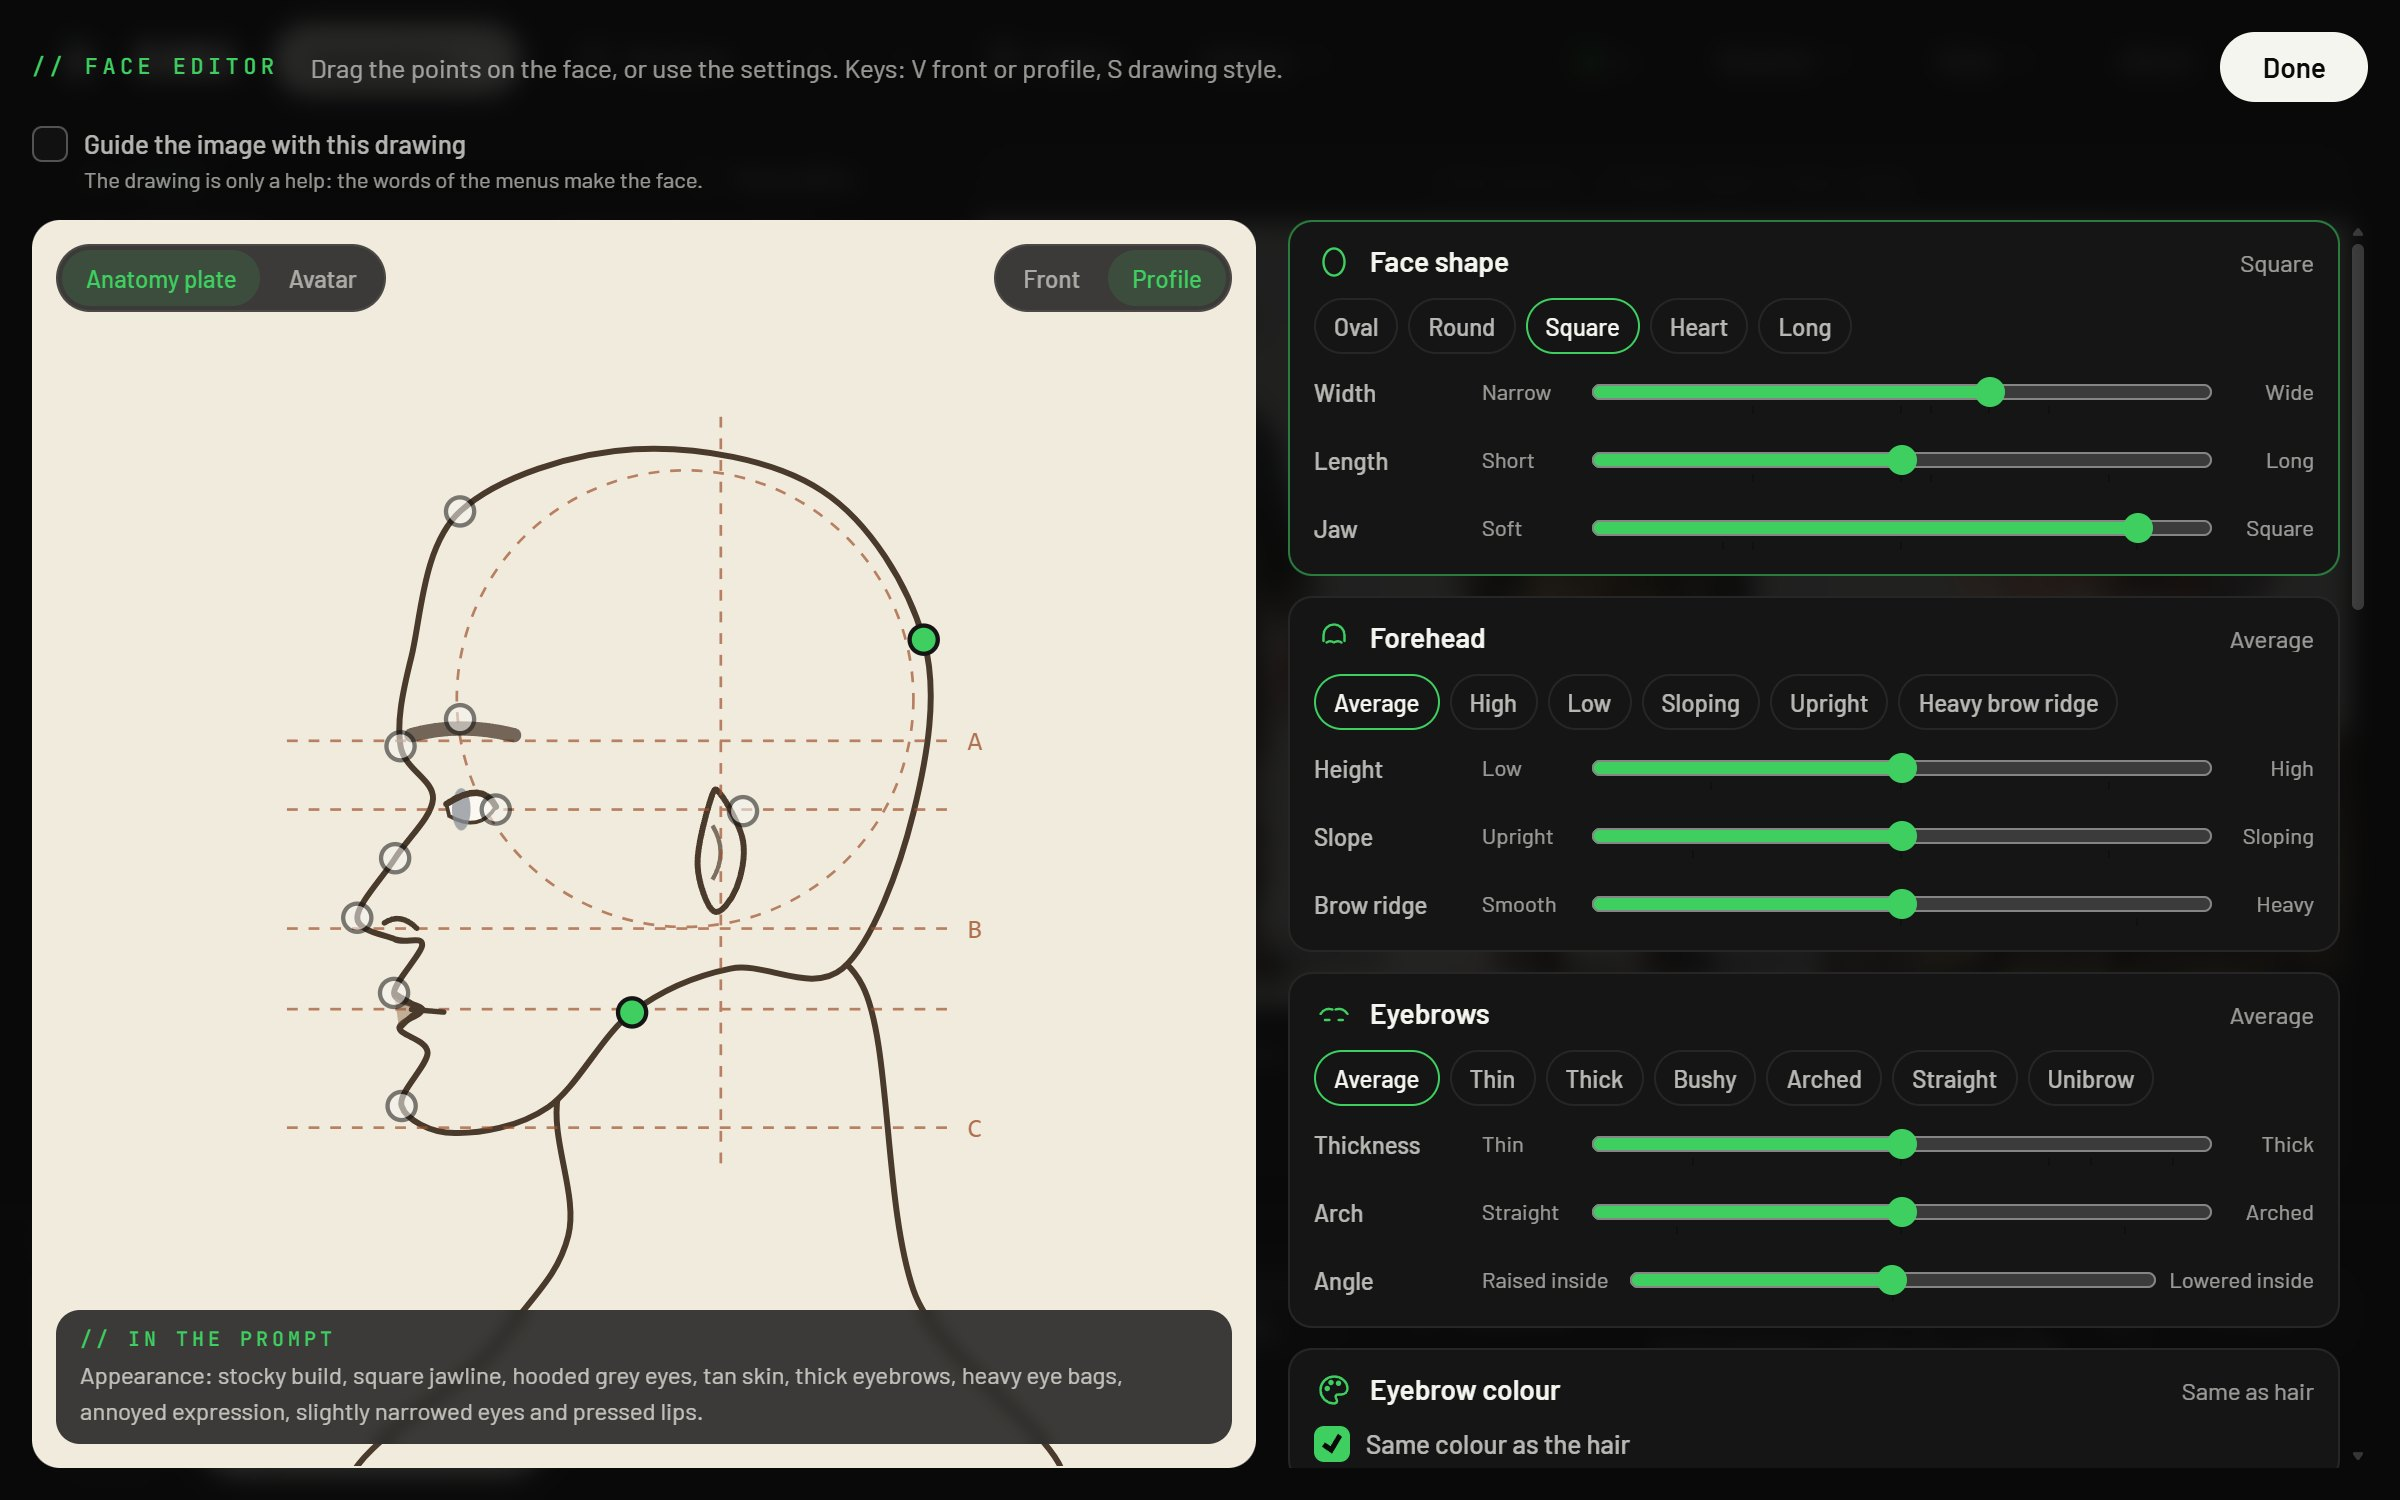
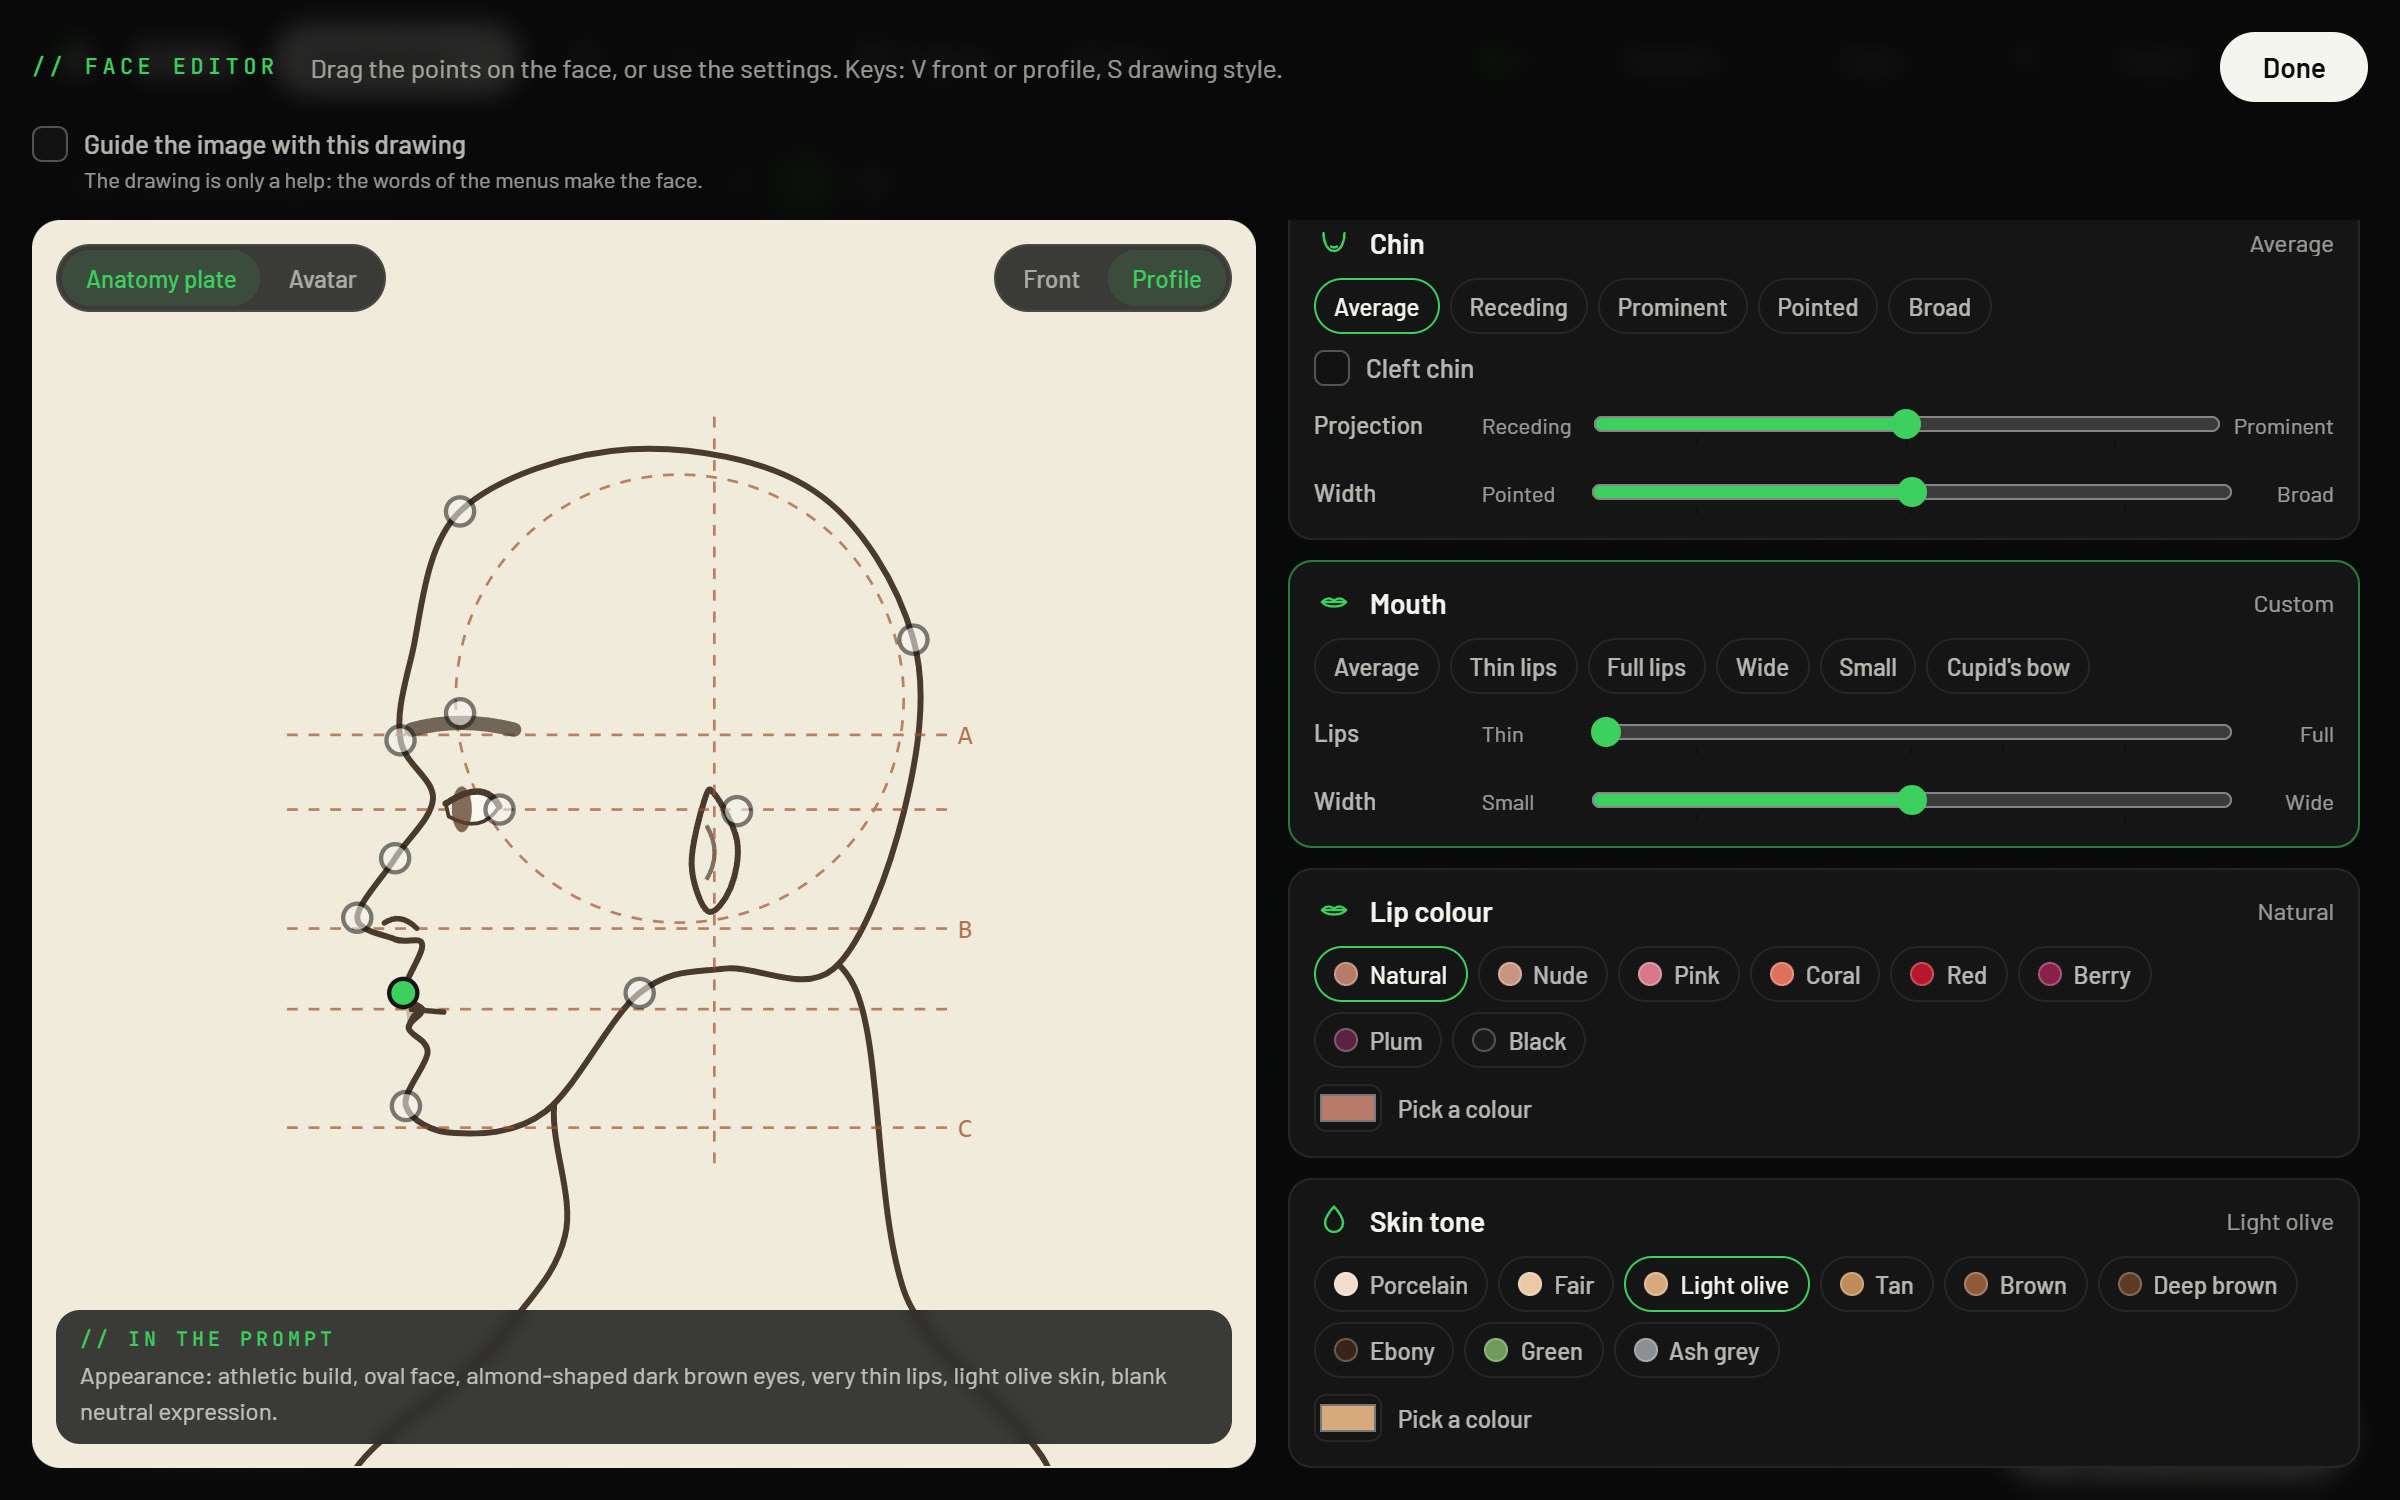
README: screenshots of the current interface, 63 checks

diff --git a/README.md b/README.md
@@ -116,7 +116,7 @@ page (public/)  ->  server.js  ->  ComfyUI on your own machine, Comfy Router, KI
 npm test
 ```
 
-Starts a fake ComfyUI, a fake Comfy Cloud and fake API providers, then checks the menus, the prompt, the values written into each workflow, image uploads, the ControlNet guide, job tracking, error messages, key handling, the installer and the updater (61 checks).
+Starts a fake ComfyUI, a fake Comfy Cloud and fake API providers, then checks the menus, the prompt, the values written into each workflow, image uploads, the ControlNet guide, job tracking, error messages, key handling, the installer and the updater (63 checks).
 
 `npm run mock` starts only the fake ComfyUI, to try the interface without a GPU.
 
